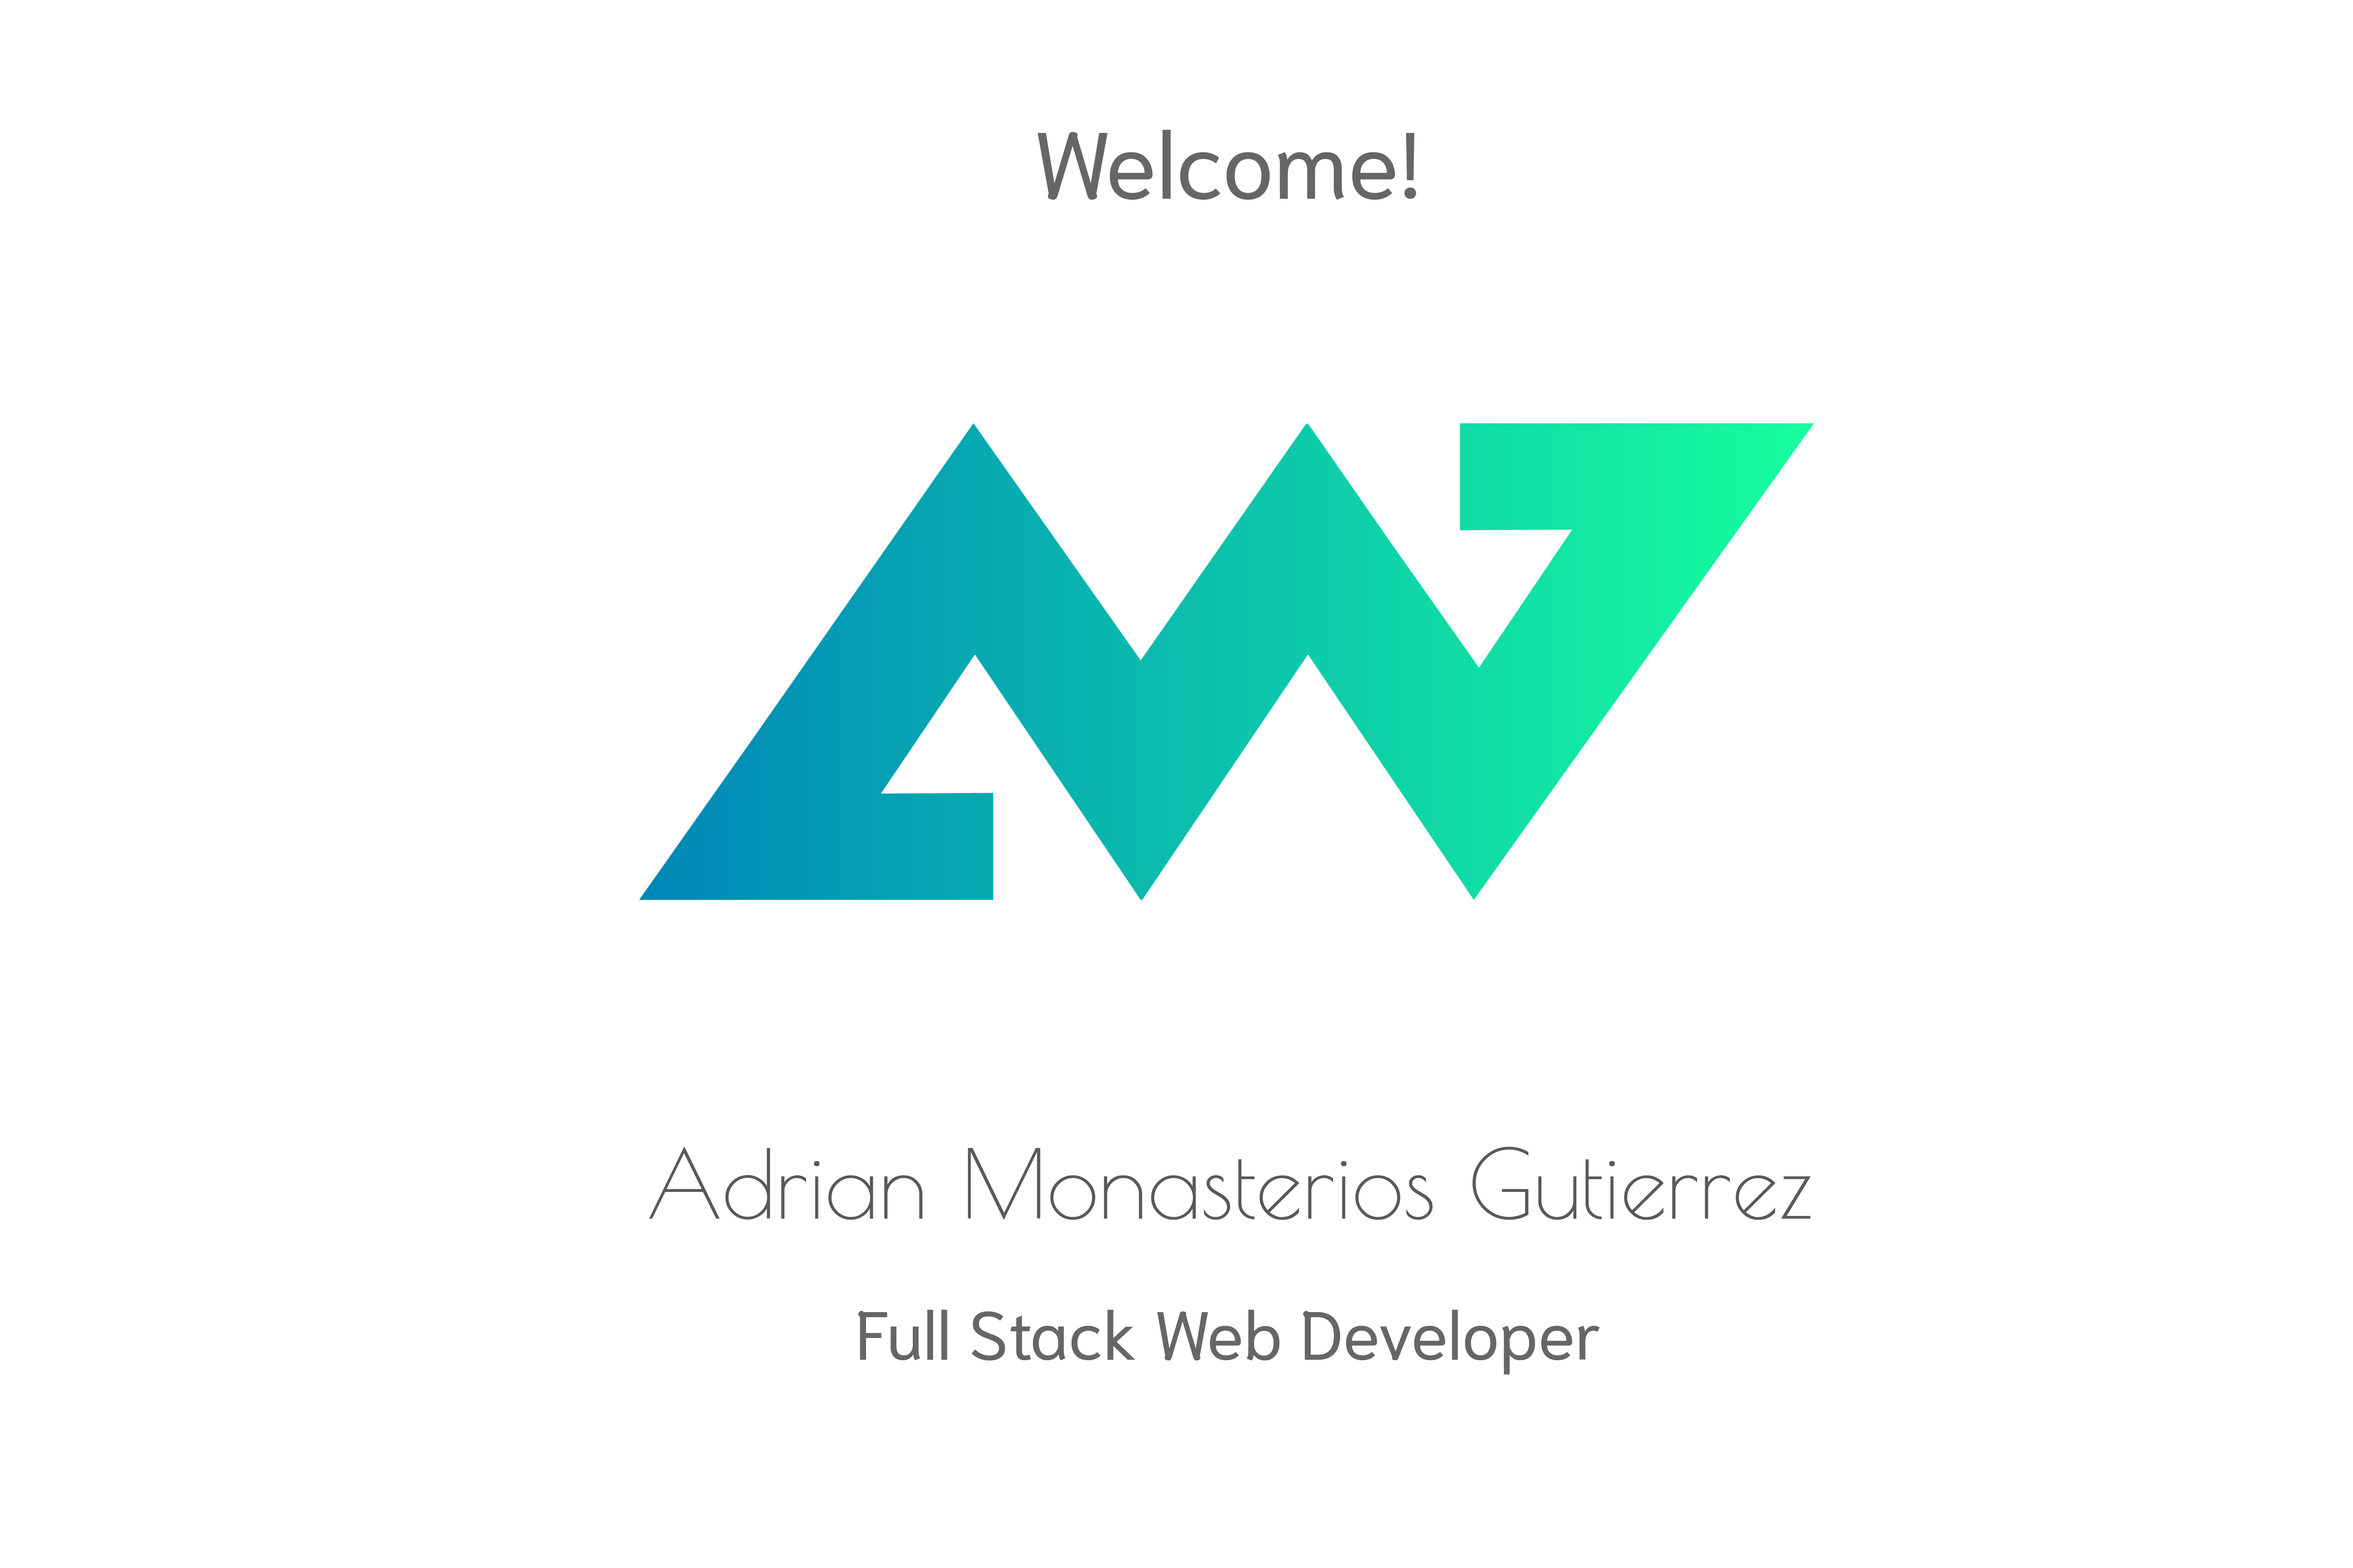
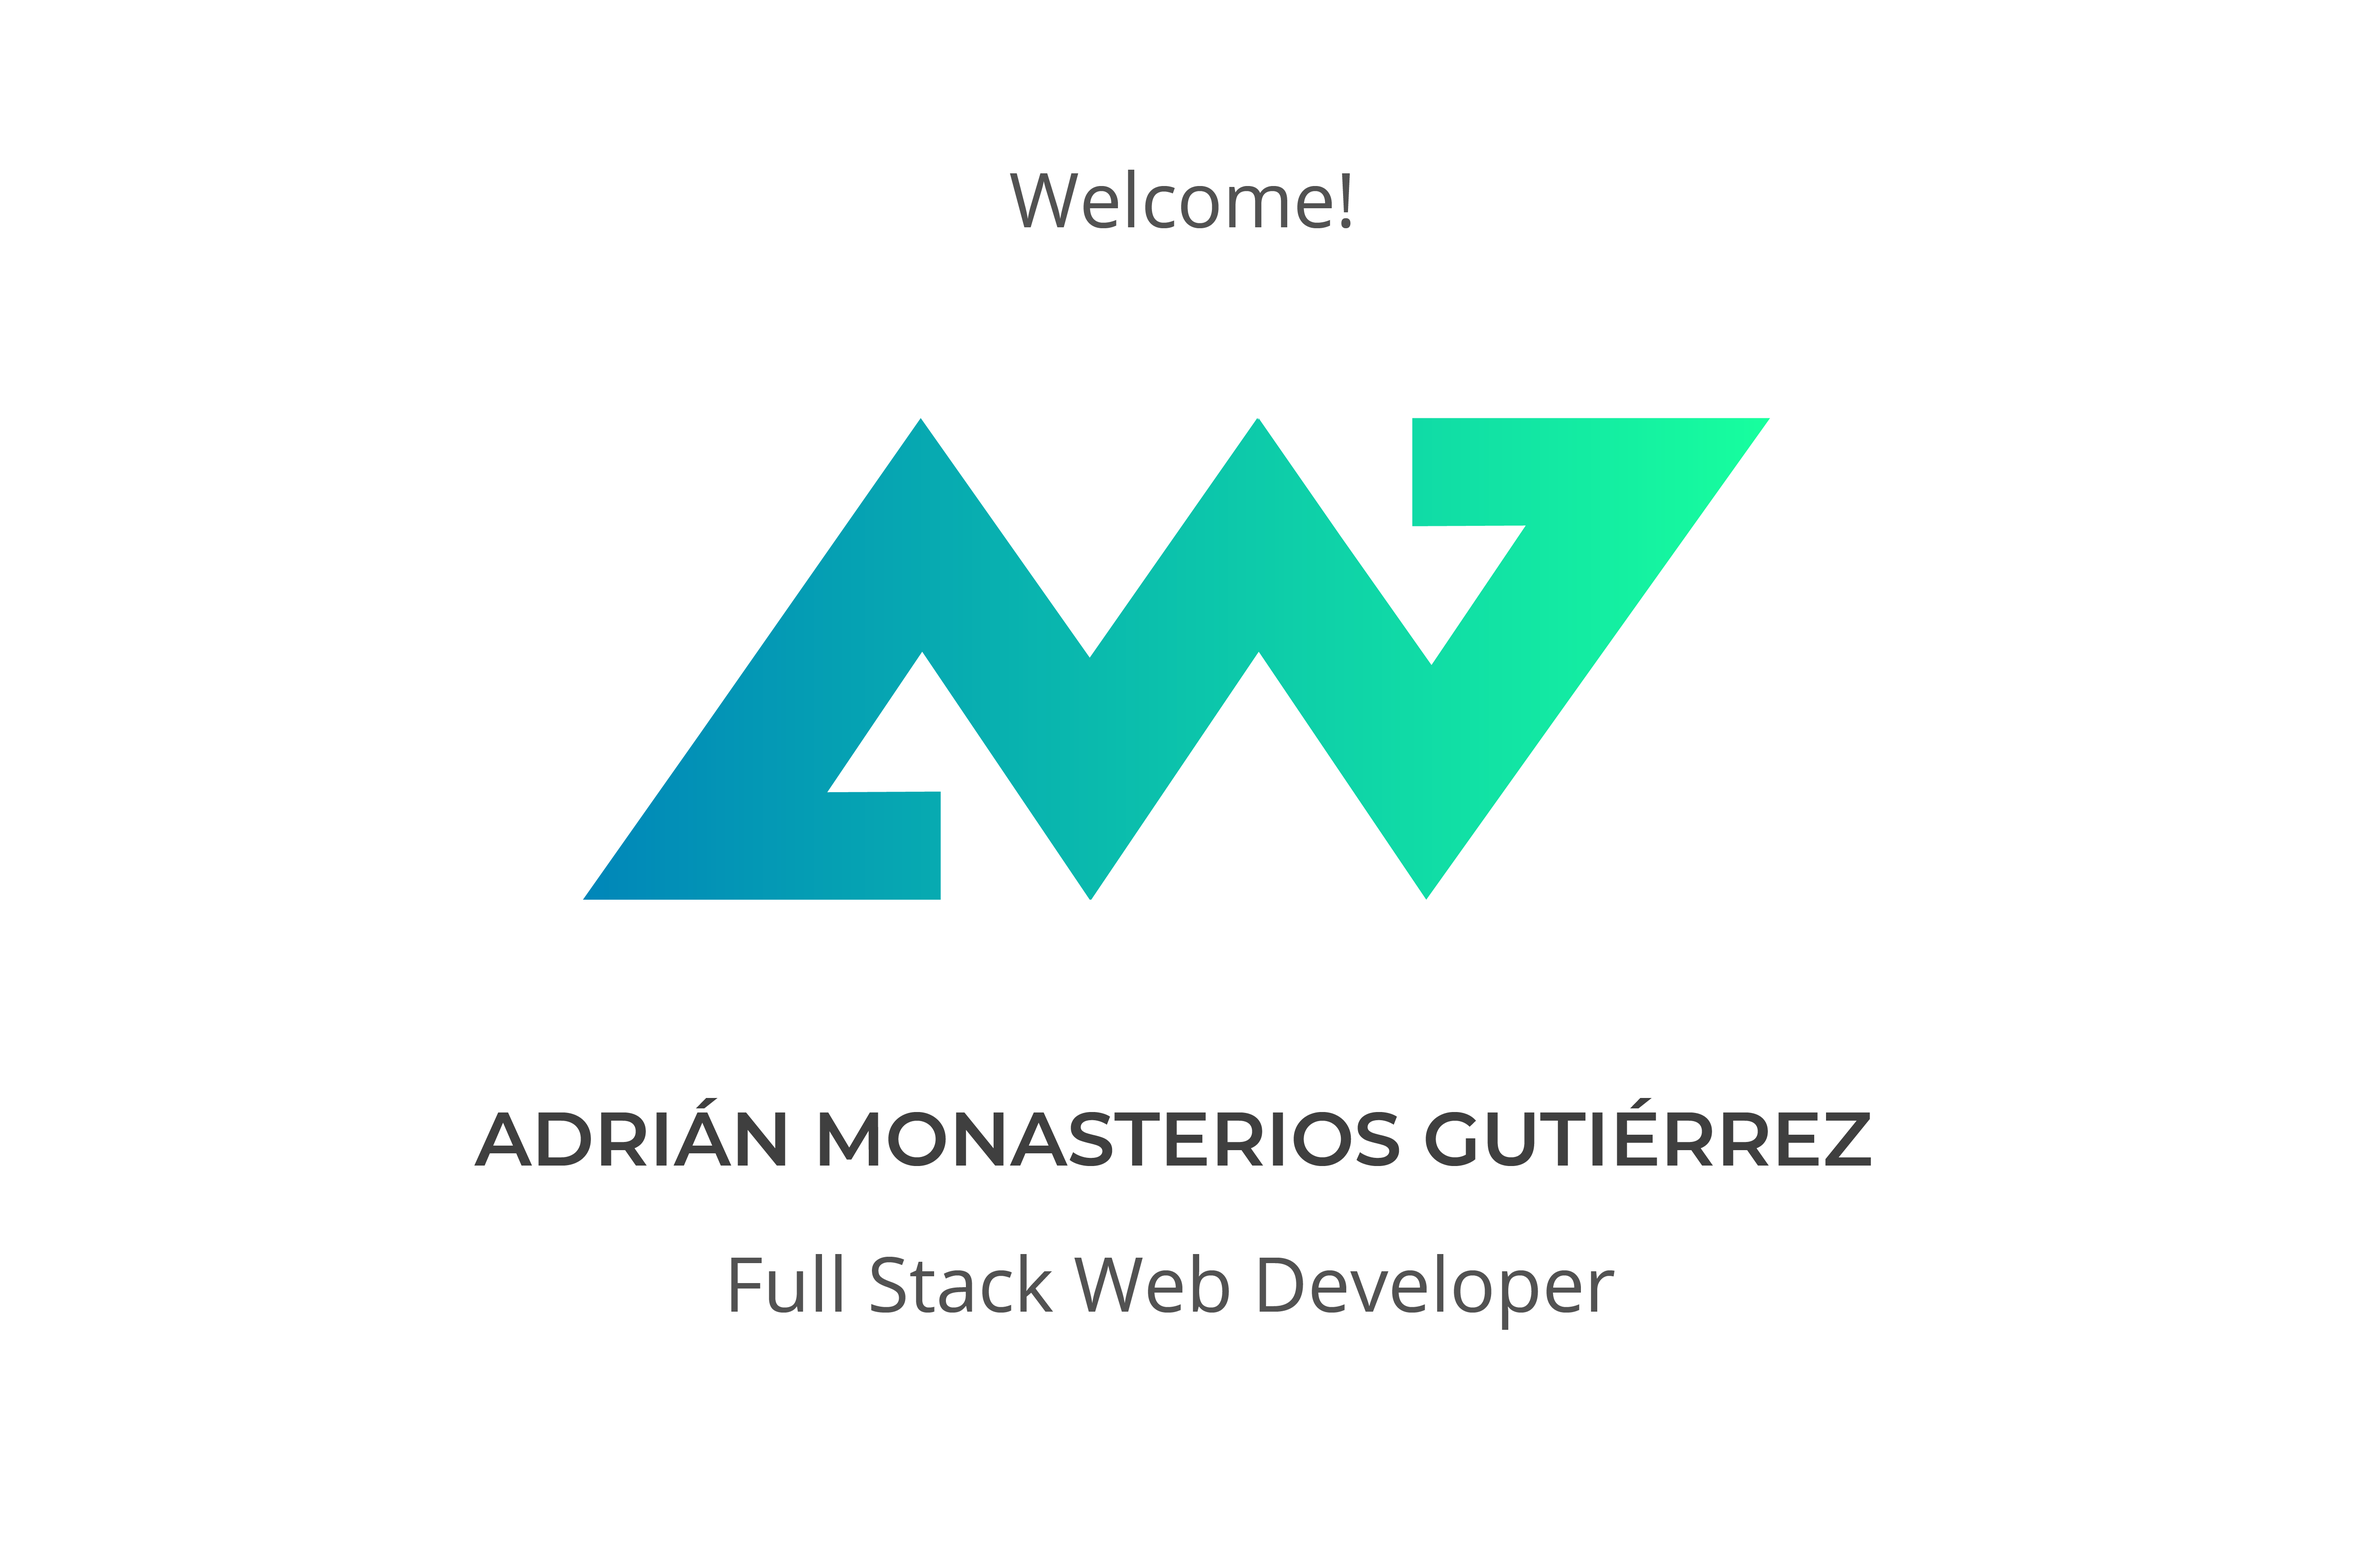
improving appereance

Changed region(s): [[0.25, 0.25, 0.7812, 0.5938], [0.1875, 0.6875, 0.8125, 0.875], [0.4375, 0.0938, 0.5938, 0.1562]]

diff --git a/src/css/style.css b/src/css/style.css
@@ -1,6 +1,6 @@
 *{
   box-sizing: border-box;
-  font-family: 'Niramit', sans-serif;;
+  font-family: 'Open Sans', sans-serif;
 }
 
 html{
@@ -20,11 +20,14 @@ a{
 }
 
 h1{
-  font-size: 3vw
+  font-size: 3vw;
+  font-family: 'Montserrat', sans-serif;
+  font-weight: bold;
 }
 
 h2{
-  font-size: 2vw
+  font-size: 2vw;
+  font-family: 'Montserrat', sans-serif;
 }
 
 iframe{
@@ -142,10 +145,11 @@ iframe{
   font-size: 3.5em;
   display: inline-flex;
   align-self: flex-start;
+  transition: 0.5s;
 }
 
 .fas:hover, .fab:hover{
-    color: rgb(21, 148, 195)
+    color: rgb(21, 148, 195);
 }
 
 
@@ -171,11 +175,11 @@ iframe{
 }
 
 .fas:hover + .tag{
-  width: 80px;
+  width: 120px;
 }
 
 .fab:hover + .tag{
-  width: 80px;
+  width: 120px;
 
 }
 
@@ -200,6 +204,7 @@ iframe{
   align-self: flex-start;
   width: 50%;
   height: 100vh;
+  box-shadow: 2px 0px 10px rgb(163, 163, 163);
 }
 
 .profile_photo img{
@@ -253,6 +258,8 @@ iframe{
   color: white;
   background: rgb(21, 148, 195);
   border: solid 1px rgba(131, 198, 223, 1);
+  border-radius: 5px;
+  box-shadow: 2px 2px 5px rgb(163, 163, 163);
   padding: 0.5em;
   display: flex;
   justify-content: center;
@@ -276,10 +283,18 @@ iframe{
   align-self: flex-start;
   justify-content: start;
   width: 100%;
+  height: 65vh;
+  padding-left: 2vw;
+  padding-right: 2vw;
+  padding-bottom: 3vh;
+  border-radius: 8px;
+  box-shadow: 2px 2px 10px rgb(163, 163, 163);
+  overflow:scroll;
 }
 
 .display_info p{
-  font-size: 1.1vw
+  font-size: 1.1vw;
+  max-width: 49%;
 }
 
 .tech-item{
@@ -331,8 +346,8 @@ iframe{
 .projects-site h1{
   width: 100%;
   text-align: center;
-  margin-bottom: 30px;
-  margin-top: 10px;
+  margin-bottom: 40px;
+  margin-top: 00px;
   color: rgb(82, 82, 82)
 }
 
@@ -341,17 +356,20 @@ iframe{
   align-self: flex-start;
   width: 100%;
   height: 60%;
+  border-radius: 10px;
+  box-shadow: 2px 2px 10px rgb(163, 163, 163);
+  transition: 0.5s;
 }
 
 .main-project img{
   height: 100%;
   width: 100%;
-  border: solid 2px rgba(131, 198, 223, 1);
-  transition: 0.5s
+  border-radius: 10px;
 }
 
-.main-project img:hover{
+.main-project:hover{
   transform: scale(1.01);
+  opacity: 0.8;
 }
 
 .project-thumbnails{
@@ -366,7 +384,13 @@ iframe{
 .project-thumbnails img{
   width: 33%;
   height:100%;
-  border: solid 1px rgb(82, 82, 82, 0.2);
+  border-radius: 6px;
+  box-shadow: 0px 3px 6px rgb(194, 194, 194);
+  transition: 0.5s;
+}
+
+.project-thumbnails img:hover{
+  box-shadow: 0px 3px 10px rgb(144, 141, 141);
 }
 
 .contact-main{
@@ -410,6 +434,7 @@ iframe{
   background-color: rgba(219, 219, 219, 1);
   border: solid 30px rgba(219, 219, 219, 1);
   border-radius: 10px;
+  box-shadow: 0px 3px 6px rgb(194, 194, 194);
 }
 
 .contact-form input[type="text"], input[type="email"]
@@ -440,7 +465,7 @@ iframe{
     background-color: rgb(21, 185, 146);
     color: white;
     padding: 10px 6px;
-    width: 15%;
+    width: 110px;
     border: solid 2px rgb(19, 175, 138);
     border-radius: 5px
 }

diff --git a/src/index.js b/src/index.js
@@ -9,8 +9,6 @@ import profilepic from './images/profile.jpg'
 import projectspic from './images/computer'
 import contactpic from './images/contact.jpg'
 import homepic from './images/background.png'
-import homepic2 from './images/background2.png'
-
 
 
 const root = ()=>{
@@ -46,7 +44,6 @@ class App extends React.Component{
             <a href="/Contact" className="button contact-btn"><i className="fas fa-project-diagram"></i><p className="tag"><span className="tag_text">Contact</span></p></a>
 
             <img className="navbar" src={homepic} alt="home"/>
-            <img className="navbar" src={homepic2} alt="home2"/>
             <img className="navbar profile-img" src={profilepic} alt='profile'/>
             <img className="navbar projects-img" src={projectspic} alt='projects'/>
             <img className="navbar contact-img" src={contactpic} alt='contact'/>

diff --git a/public/index.html b/public/index.html
@@ -11,7 +11,9 @@
     -->
     <link rel="manifest" href="%PUBLIC_URL%/manifest.json">
     <link rel="stylesheet" href="https://use.fontawesome.com/releases/v5.4.2/css/all.css" integrity="sha384-/rXc/GQVaYpyDdyxK+ecHPVYJSN9bmVFBvjA/9eOB+pb3F2w2N6fc5qB9Ew5yIns" crossorigin="anonymous">
-    <link href="https://fonts.googleapis.com/css?family=Niramit" rel="stylesheet">
+    <link href="https://fonts.googleapis.com/css?family=Open+Sans" rel="stylesheet">
+    <link href="https://fonts.googleapis.com/css?family=Montserrat" rel="stylesheet">
+
     <!--
       Notice the use of %PUBLIC_URL% in the tags above.
       It will be replaced with the URL of the `public` folder during the build.
